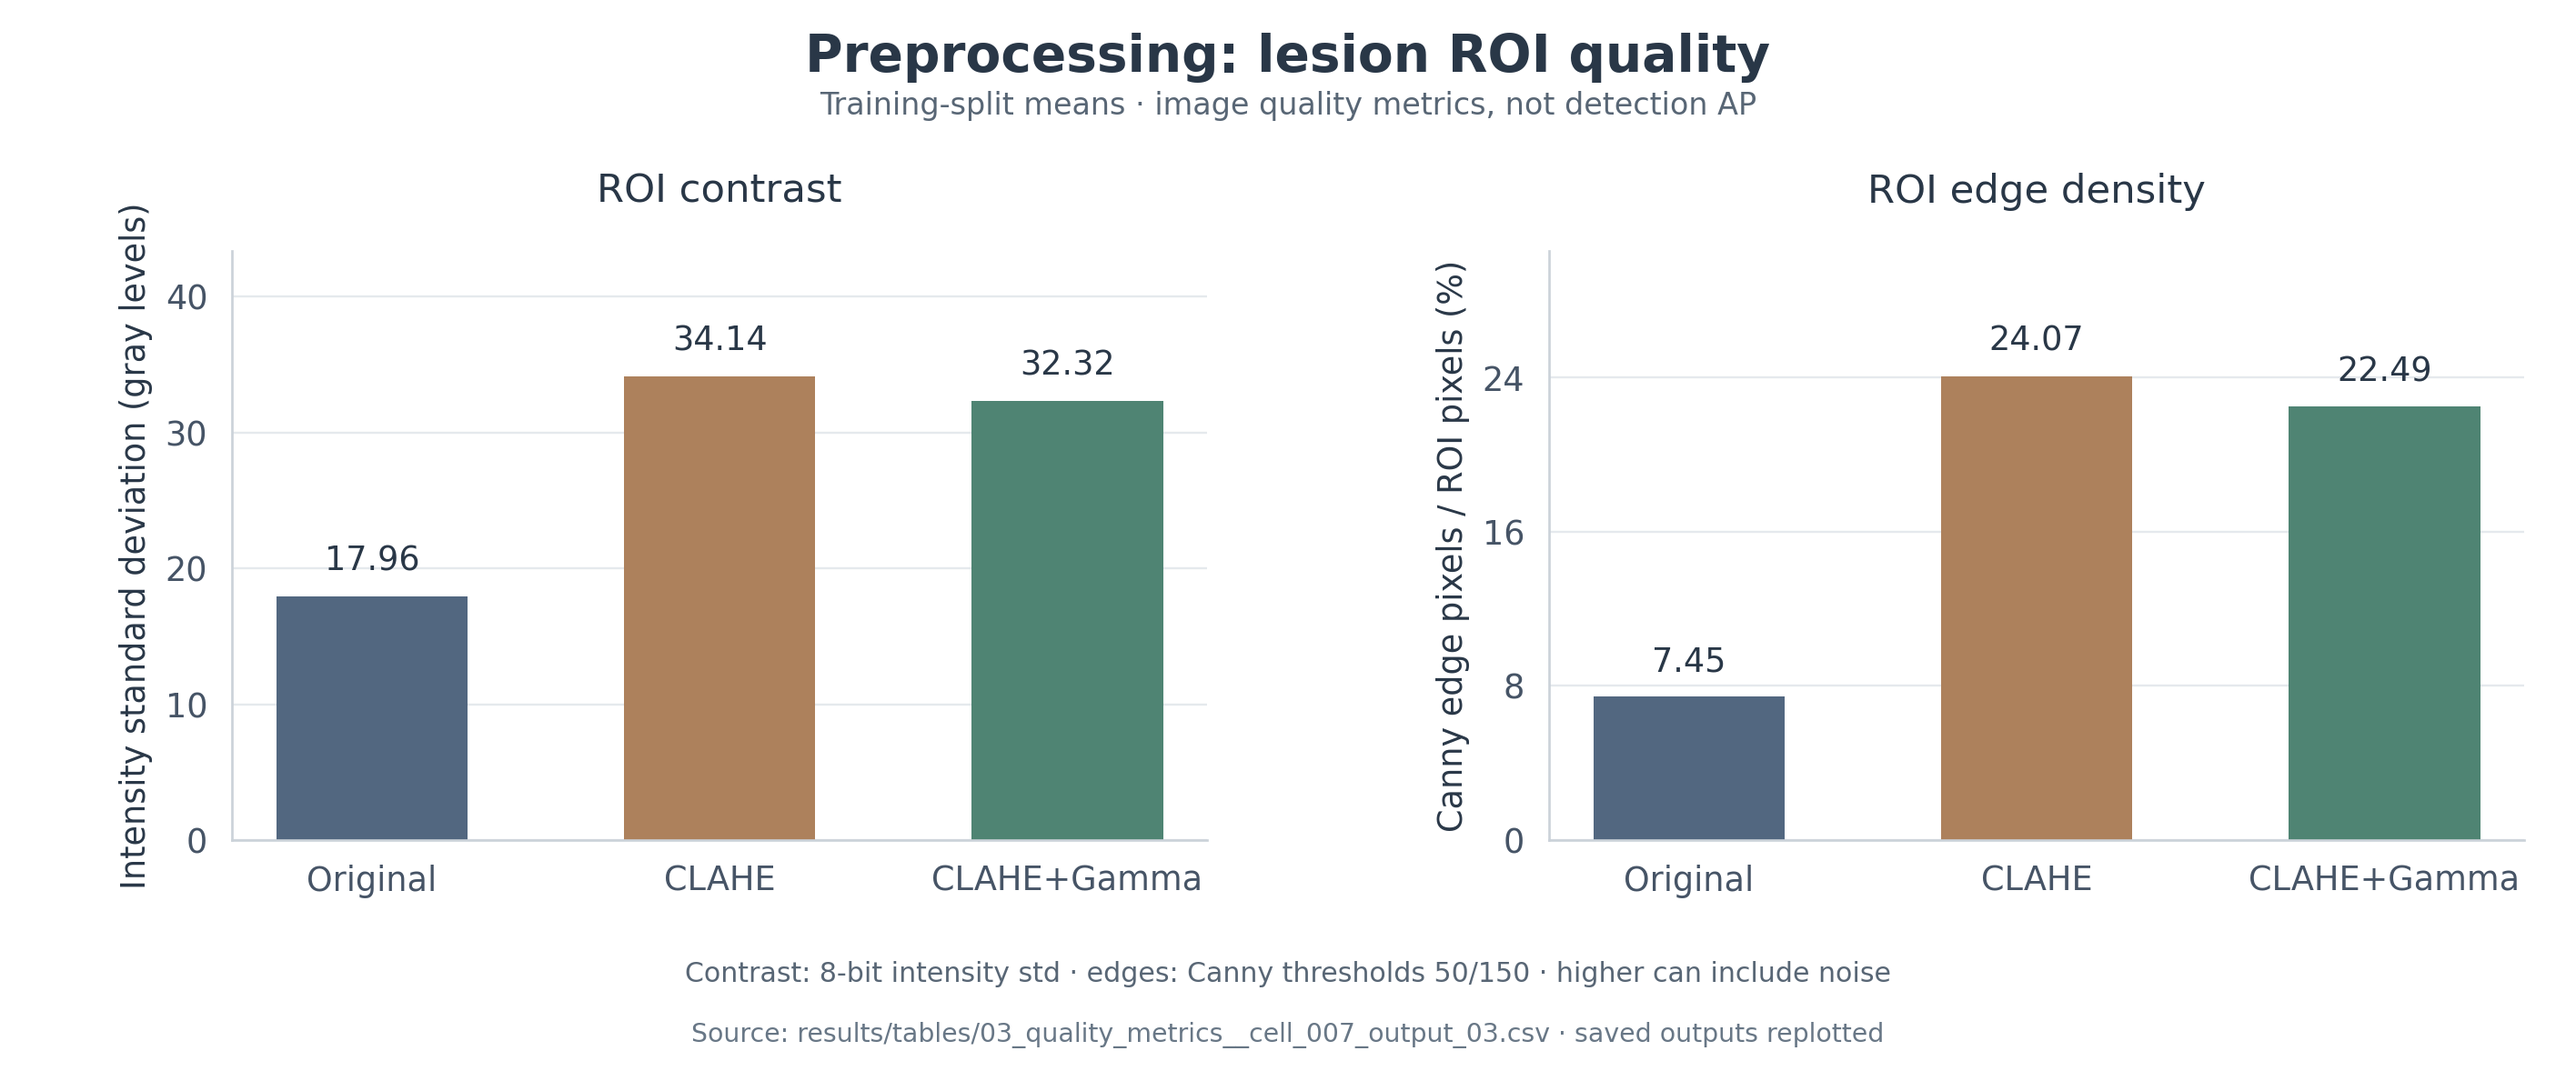
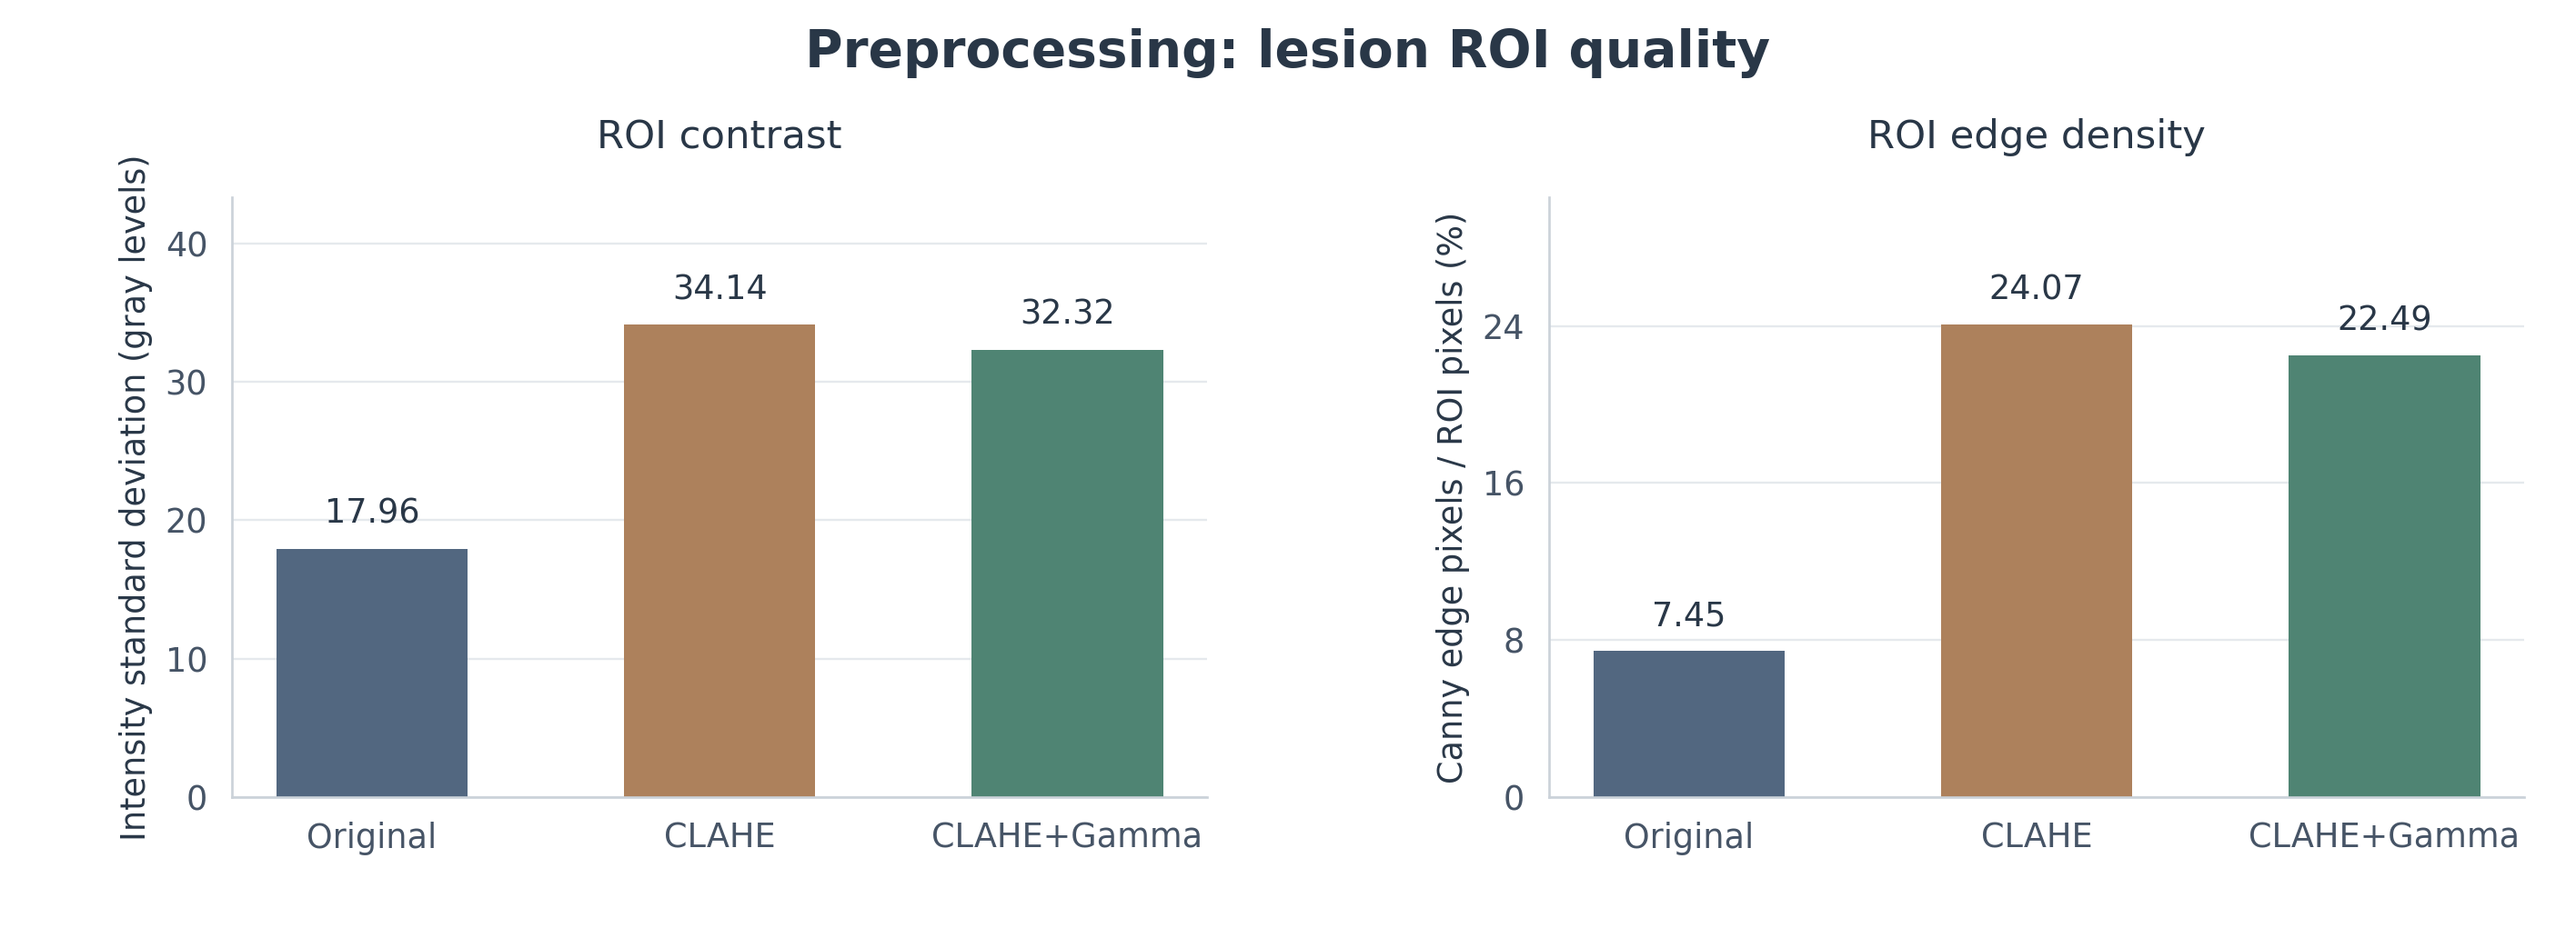
Clarify best and last markers and simplify figure captions

diff --git a/scripts/plot_experiment_results.py b/scripts/plot_experiment_results.py
@@ -31,6 +31,7 @@ import matplotlib
 
 matplotlib.use("Agg")
 import matplotlib.pyplot as plt
+from matplotlib.lines import Line2D
 from matplotlib.ticker import MaxNLocator, MultipleLocator
 
 
@@ -157,7 +158,7 @@ def bars(ax: plt.Axes, labels: list[str], values: list[float], fmt: str) -> None
 
 
 def quality_figure(data: list[dict]) -> plt.Figure:
-    fig, axes = plt.subplots(1, 2, figsize=(11.8, 5.0))
+    fig, axes = plt.subplots(1, 2, figsize=(11.8, 4.3))
     labels = [row["label"] for row in data]
     bars(axes[0], labels, [row["roi_contrast"] for row in data], ".2f")
     axes[0].set_title("ROI contrast", pad=16)
@@ -168,38 +169,25 @@ def quality_figure(data: list[dict]) -> plt.Figure:
     axes[1].set_ylabel("Canny edge pixels / ROI pixels (%)")
     axes[1].yaxis.set_major_locator(MaxNLocator(5))
     fig.suptitle("Preprocessing: lesion ROI quality", fontsize=17, fontweight="semibold", y=0.97)
-    fig.text(0.5, 0.895, "Training-split means · image quality metrics, not detection AP",
-             ha="center", fontsize=10, color="#586675")
-    fig.text(0.5, 0.10, "Contrast: 8-bit intensity std · edges: Canny thresholds 50/150 · higher can include noise",
-             ha="center", fontsize=9, color="#586675")
-    fig.text(0.5, 0.045, "Source: results/tables/" + QUALITY_CSV + " · saved outputs replotted",
-             ha="center", fontsize=8.5, color="#687786")
-    fig.subplots_adjust(left=0.09, right=0.98, bottom=0.23, top=0.77, wspace=0.35)
+    fig.subplots_adjust(left=0.09, right=0.98, bottom=0.15, top=0.79, wspace=0.35)
     return fig
 
 
 def yolo_figure(data: list[dict]) -> plt.Figure:
-    fig, axes = plt.subplots(1, 2, figsize=(11.8, 5.0))
+    fig, axes = plt.subplots(1, 2, figsize=(11.8, 4.3))
     labels = [row["label"] for row in data]
     for ax, metric in zip(axes, ("mAP50", "mAP50-95")):
         bars(ax, labels, [row[metric] for row in data], ".3f")
         ax.set_title(metric, pad=16)
         ax.set_ylabel("Average precision (ratio)")
         ax.yaxis.set_major_locator(MaxNLocator(5))
-    fig.suptitle("YOLO11n: final best-checkpoint validation", fontsize=17, fontweight="semibold", y=0.97)
-    fig.text(0.5, 0.895,
-             f"{data[0]['epochs']} epochs each · validation: {data[0]['images']} images / {data[0]['instances']} instances",
-             ha="center", fontsize=10, color="#586675")
-    fig.text(0.5, 0.10, "Zero-based axes · different panel scales · rounded final validation logs, not best-epoch CSV metrics",
-             ha="center", fontsize=9, color="#586675")
-    fig.text(0.5, 0.045, "Source: results/tables/" + YOLO_CSV + " · saved outputs replotted",
-             ha="center", fontsize=8.5, color="#687786")
-    fig.subplots_adjust(left=0.08, right=0.98, bottom=0.23, top=0.77, wspace=0.3)
+    fig.suptitle("YOLO11n: final best.pt validation", fontsize=17, fontweight="semibold", y=0.97)
+    fig.subplots_adjust(left=0.08, right=0.98, bottom=0.15, top=0.79, wspace=0.3)
     return fig
 
 
 def history_figure(data: list[dict]) -> plt.Figure:
-    fig, axes = plt.subplots(1, 2, figsize=(12.4, 7.8))
+    fig, axes = plt.subplots(1, 2, figsize=(12.4, 5.8))
     upper = math.ceil(max(row["best_AP50"] for row in data) * 1.15 / 0.05) * 0.05
     for ax, length in zip(axes, (30, 100)):
         for row in (row for row in data if row["epochs_recorded"] == length):
@@ -217,11 +205,14 @@ def history_figure(data: list[dict]) -> plt.Figure:
         ax.xaxis.set_major_locator(MultipleLocator(5 if length == 30 else 20))
         ax.yaxis.set_major_locator(MultipleLocator(0.1))
         clean_axes(ax)
-        ax.legend(loc="lower right", frameon=False, fontsize=10)
-    fig.suptitle("Faster R-CNN: AP50 across epochs", fontsize=17, fontweight="semibold", y=0.97)
-    fig.text(0.5, 0.915, "ResNet50-FPN · validation IoU 0.50 · score threshold 0.05 · no smoothing",
-             ha="center", fontsize=10, color="#586675")
-    table_ax = fig.add_axes((0.08, 0.15, 0.86, 0.18))
+        handles, _ = ax.get_legend_handles_labels()
+        handles.extend([
+            Line2D([], [], linestyle="none", marker="D", color="#5B6876", markersize=6, label="Best"),
+            Line2D([], [], linestyle="none", marker="o", color="#5B6876", markersize=6, label="Last"),
+        ])
+        ax.legend(handles=handles, loc="lower right", frameon=False, fontsize=10)
+    fig.suptitle("Faster R-CNN (ResNet50-FPN): VOC AP50", fontsize=17, fontweight="semibold", y=0.97)
+    table_ax = fig.add_axes((0.08, 0.045, 0.86, 0.23))
     table_ax.axis("off")
     cells = [[f"{row['label']} / {row['epochs_recorded']} epochs", f"{row['best_AP50']:.6f}",
               str(row["best_epoch"]), f"{row['last_AP50']:.6f}"] for row in data]
@@ -238,10 +229,6 @@ def history_figure(data: list[dict]) -> plt.Figure:
             cell.set_text_props(weight="semibold")
         elif col_idx == 0:
             cell.set_text_props(color=COLORS[data[row_idx - 1]["label"]])
-    fig.text(0.5, 0.095, "Diamond: earliest maximum · circle: last epoch · 30/100-epoch runs are separate experiments",
-             ha="center", fontsize=9, color="#586675")
-    fig.text(0.5, 0.045, "Source: results/tables/05B_cell_007 / 008 history CSVs · VOC AP50 is not Ultralytics mAP50",
-             ha="center", fontsize=8.5, color="#687786")
     fig.subplots_adjust(left=0.08, right=0.97, bottom=0.43, top=0.82, wspace=0.3)
     return fig
 

diff --git a/results/README.md b/results/README.md
@@ -46,7 +46,9 @@
 | 30 epoch / CLAHE+Gamma | [cell 008 CG](tables/05B_cell_008__frcnn_resnet50_fpn__clahe_gamma_history.csv) | 0.2909470683437324 / 4 | 0.23481221908034494 |
 | 100 epoch / CLAHE+Gamma | [cell 007 CG](tables/05B_cell_007__single_resnet50_fpn__clahe_gamma_history.csv) | 0.3109045753710932 / 4 | 0.2846165126854997 |
 
-최고값과 마지막 값은 각 history에서 계산해 [기존 요약 CSV](tables/frcnn_history_summary.csv)와 대조합니다. 30/100 epoch는 서로 다른 실행이며 같은 폴더를 재사용했던 기록을 합치지 않았습니다. Loss를 새로 추정하거나 추가하지 않았습니다.
+최고값과 마지막 값은 각 history에서 계산해 [기존 요약 CSV](tables/frcnn_history_summary.csv)와 대조합니다. 그래프의 범례에서 ◆ Best는 최초 최고값 epoch, ● Last는 마지막 epoch를 뜻하며, 아래 요약표에서도 값과 최고 epoch를 확인할 수 있습니다. 30/100 epoch는 서로 다른 실행이며 같은 폴더를 재사용했던 기록을 합치지 않았습니다. Loss를 새로 추정하거나 추가하지 않았습니다.
+
+100 epoch 실행의 최고값은 epoch 4에 나타났지만, 이 사실만으로 과적합이나 성능 정체의 원인을 확정하지 않습니다. 모델·학습 조건과 반복 실험을 함께 확인해야 합니다.
 
 ### 재생성
 
@@ -58,7 +60,7 @@ python scripts/plot_experiment_results.py
 python scripts/plot_experiment_results.py --output-dir /tmp/xca-plots
 ```
 
-기본 출력은 새 PNG 3개와 [visualization_manifest.json](figures/visualization_manifest.json)입니다. 기본 240 DPI로 품질·YOLO 그림은 2832×1200, 학습 이력은 2976×1872 픽셀입니다. Original은 청회색, CLAHE는 갈색, CLAHE+Gamma는 녹색으로 통일했습니다. 출처와 단위는 그림 하단에도 표시합니다.
+기본 출력은 새 PNG 3개와 [visualization_manifest.json](figures/visualization_manifest.json)입니다. 기본 240 DPI로 품질·YOLO 그림은 2832×1032, 학습 이력은 2976×1392 픽셀입니다. Original은 청회색, CLAHE는 갈색, CLAHE+Gamma는 녹색으로 통일했습니다. 축에는 단위를 남기고, 작은 부제·출처·해석 문구는 이 문서로 모았습니다. README의 그림은 bbox를 포함한 4개 그대로이며, 학습 이력 PNG의 세로 길이는 이전 1872픽셀에서 1392픽셀로 줄였습니다.
 
 Manifest에는 입력 CSV hash, 실제로 그린 값/epoch, 색상, 표시 단위, 소프트웨어 버전, 생성 PNG hash, 재사용 bbox PNG hash가 있습니다. 원본을 추출한 `image_manifest.json`의 범위는 기존 22개 출력 그대로이며 새 그림의 검증 정보와 구분합니다. Matplotlib/폰트 캐시는 임시 디렉터리를 사용하며 실험 코드·CSV·원본 그림은 수정하지 않습니다.
 
